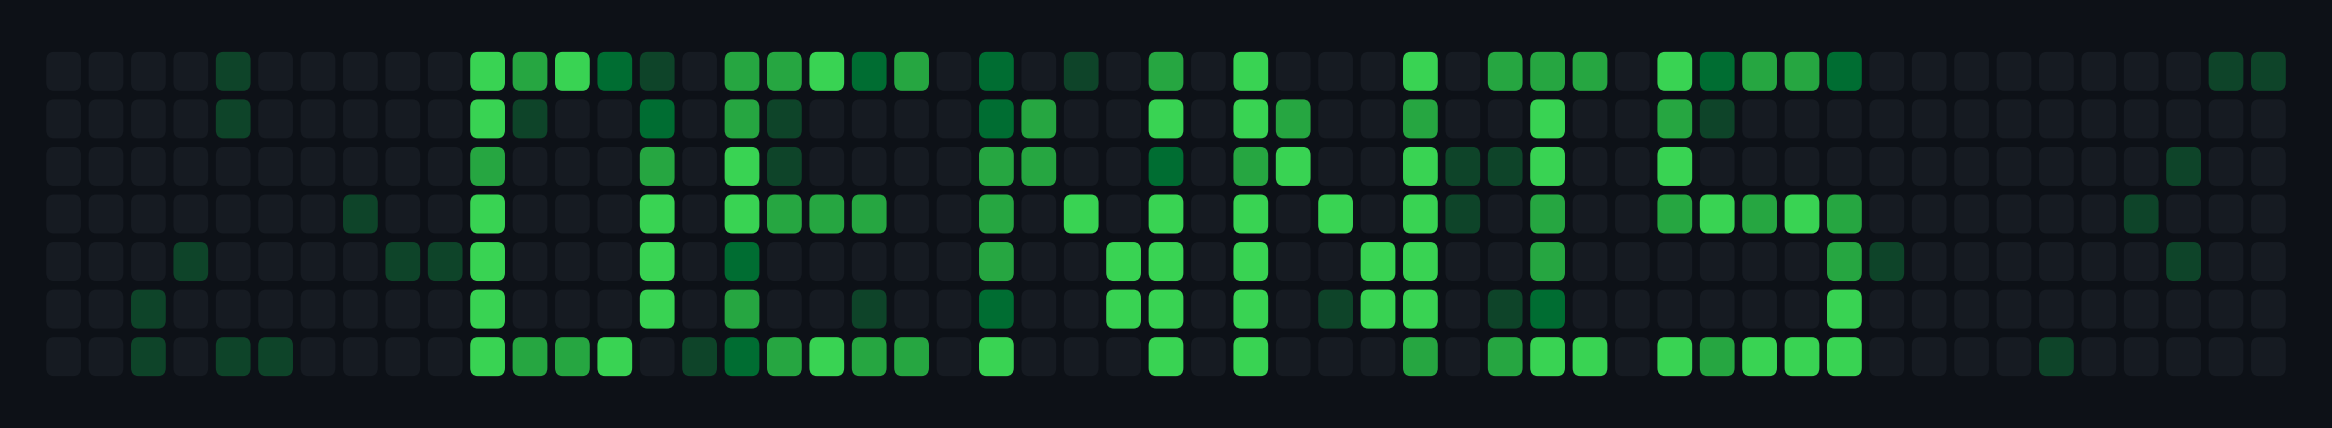
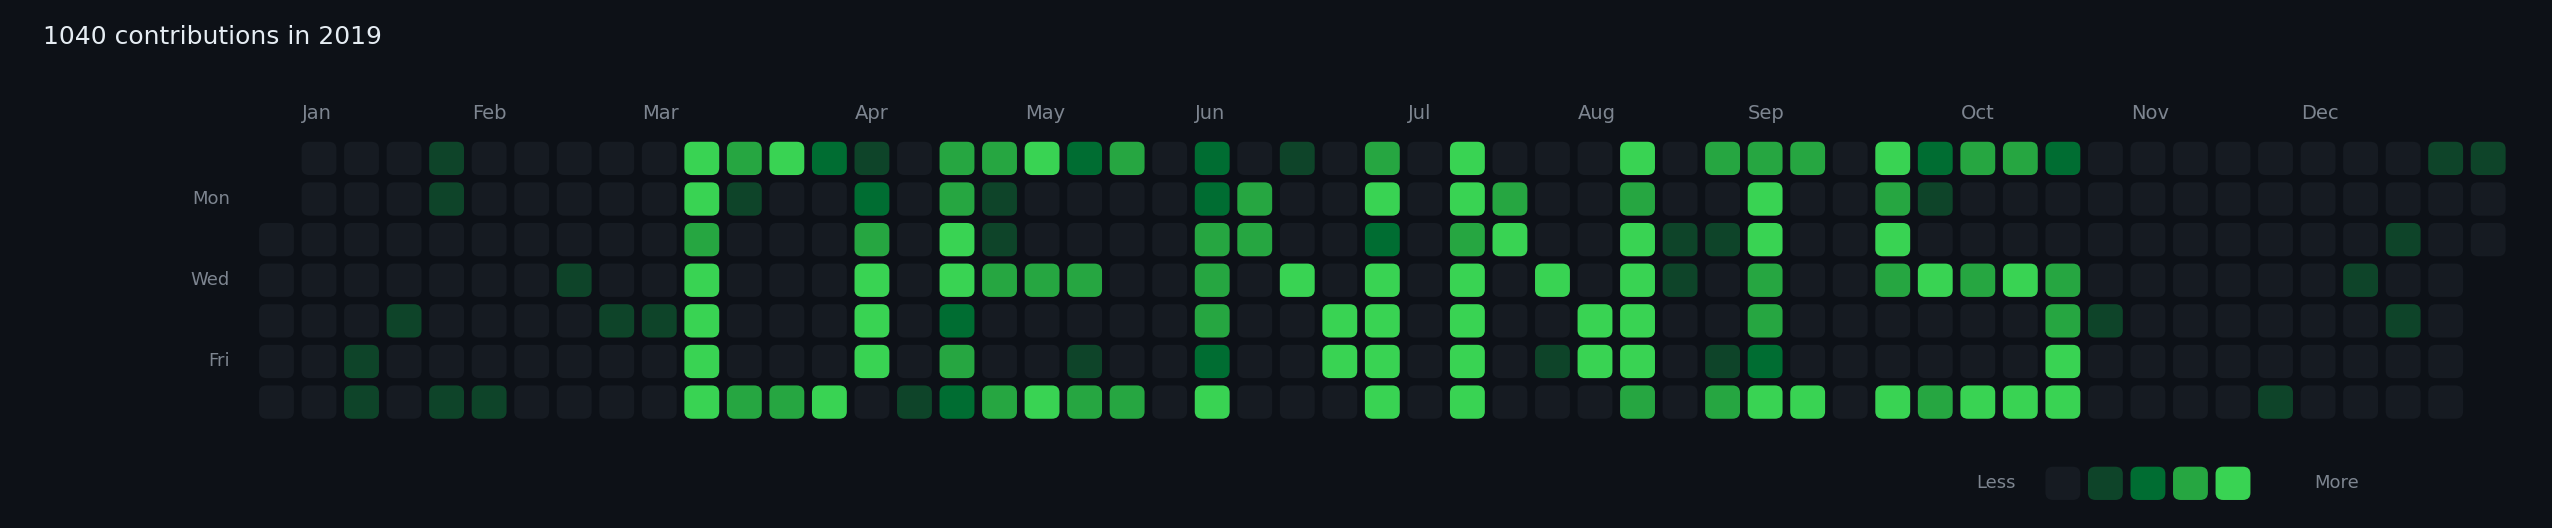
docs: regenerate example images for the new chart chrome; refresh README captions
The preview render now draws the full GitHub chrome (month headers, weekday
labels, contributions heading, Less->More legend), so regenerate the example
PNG to match, and reword the hero copy to describe the real-looking chart.

diff --git a/README.md b/README.md
@@ -1,8 +1,8 @@
 # github-contribution-art
 
 Spell a word in the GitHub contribution graph — as a ready-to-upload **LinkedIn
-banner**, as an **organic-looking graph**, or as **real backdated commits** you
-push to a throwaway account.
+banner**, as a **real-looking contribution chart** (with GitHub's month/weekday
+chrome), or as **real backdated commits** you push to a profile.
 
 The contribution graph is just a 7-row (Sun–Sat) × ~53-column (weeks) grid of
 green squares. Line up enough commits on the right days and the squares spell
@@ -11,12 +11,14 @@ just empty and decorative.
 
 ![DENNIS as a LinkedIn banner](examples/dennis-linkedin-banner.png)
 
-Or the "organic" look — varied green shades plus a little faint background
-activity, so it reads like a genuinely busy year rather than obviously-planted
-art (inspired by [Lauren Frailey](https://www.linkedin.com/in/lauren-frailey/)'s
+Or the full contribution-chart look — varied green shades and faint background
+activity, rendered with the real GitHub chrome (month headers, weekday labels,
+the "N contributions in YEAR" heading, and the Less→More legend), so it reads
+like a screenshot of a genuinely busy year rather than obviously-planted art
+(inspired by [Lauren Frailey](https://www.linkedin.com/in/lauren-frailey/)'s
 "MINTLIFY" contribution graph):
 
-![DENNIS as an organic contribution graph](examples/dennis-graph-preview.png)
+![DENNIS as a full GitHub contribution chart](examples/dennis-graph-preview.png)
 
 ## Quick start
 